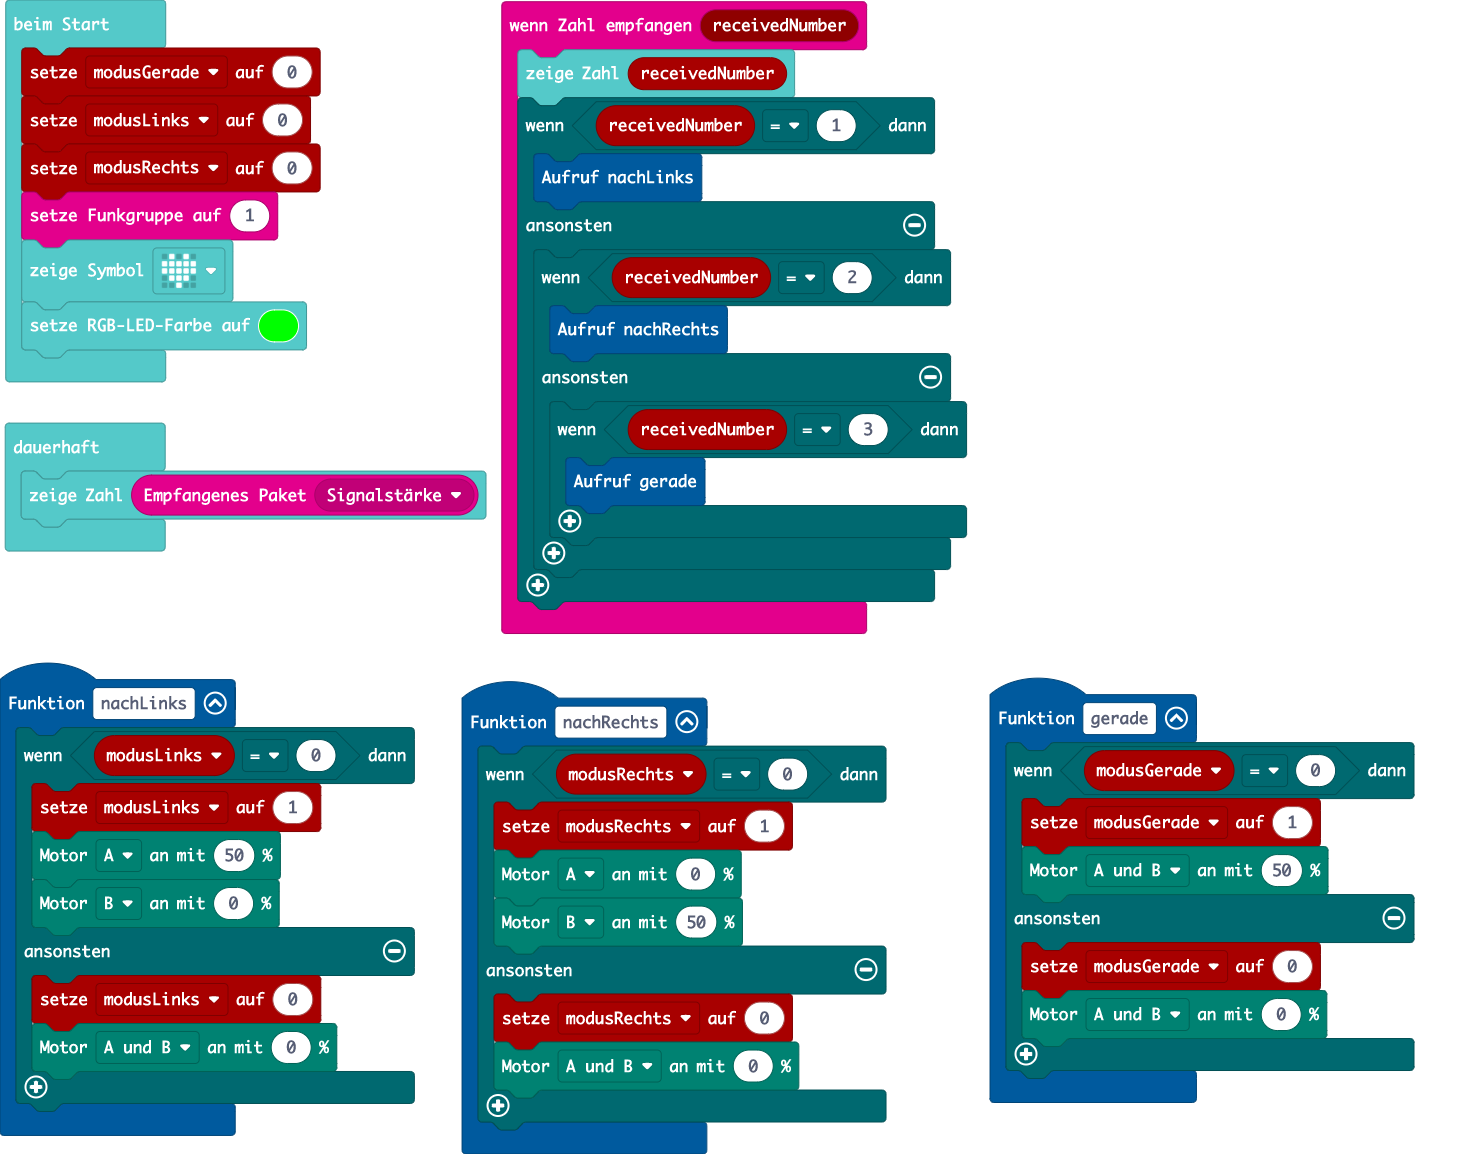
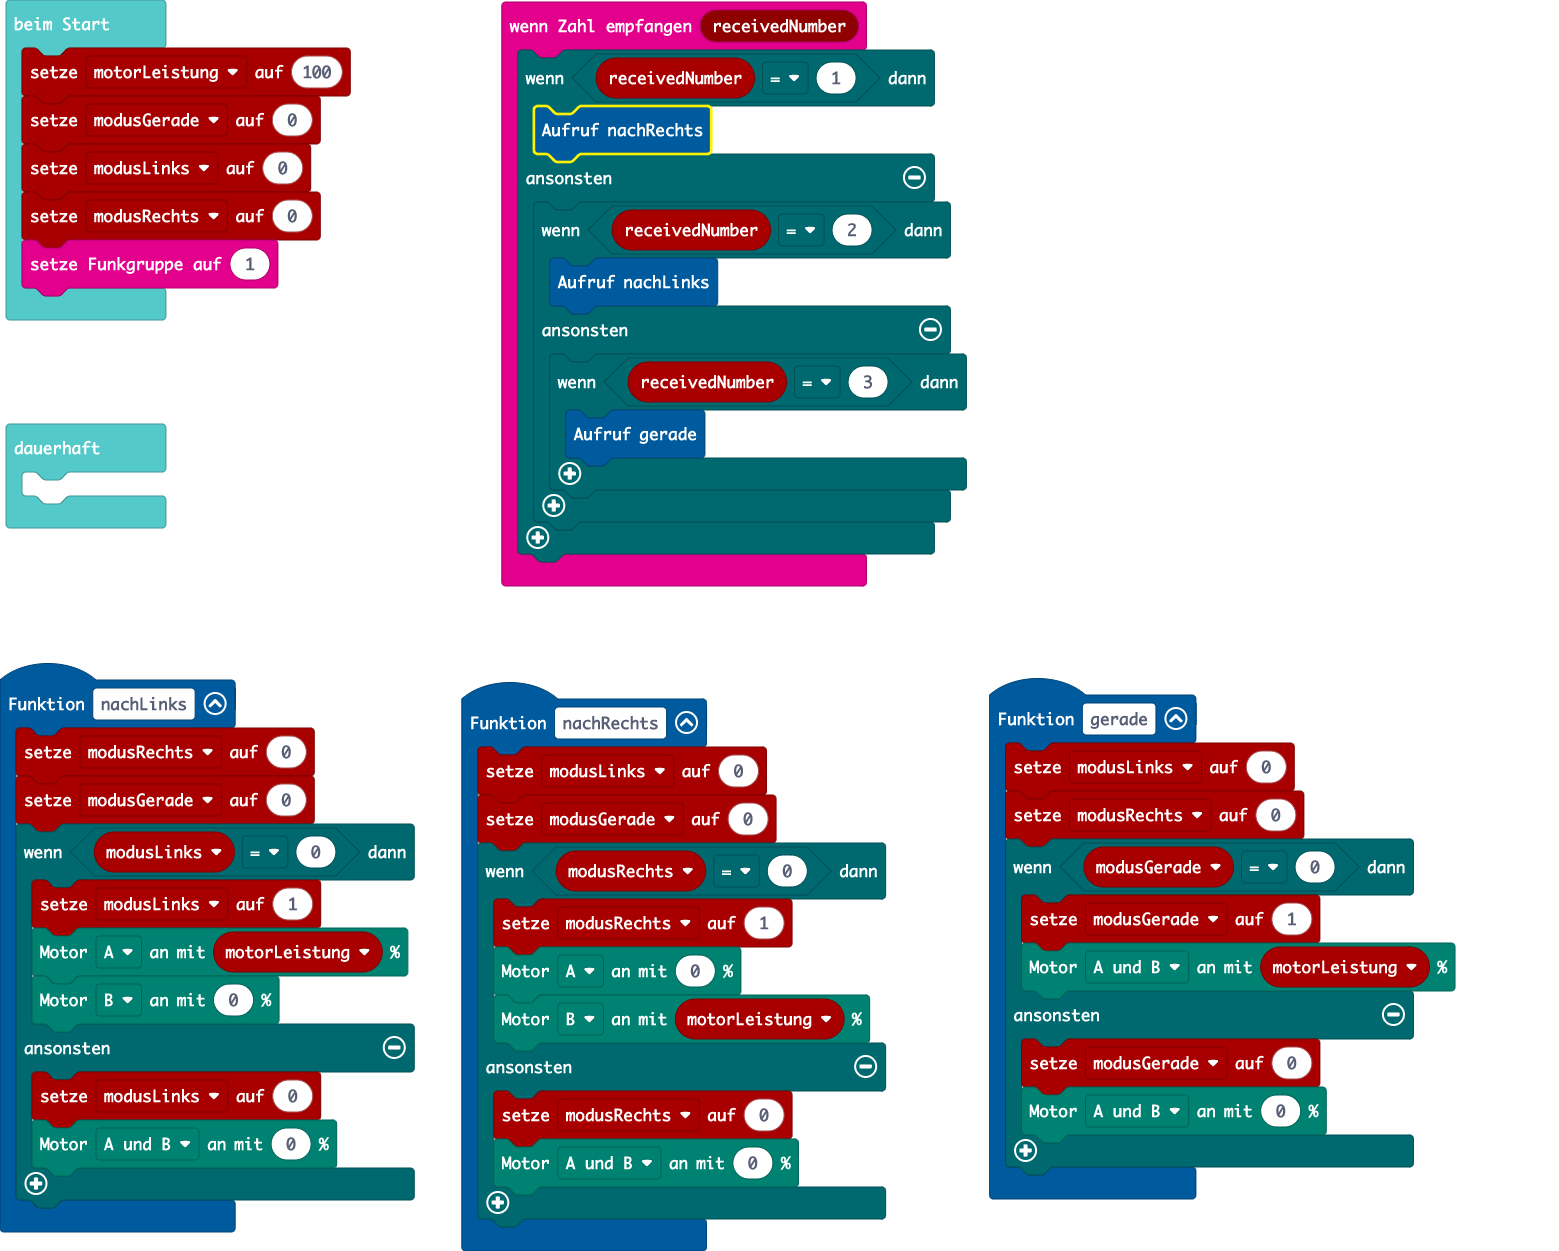
Aktualisiere main.blocks, main.ts

diff --git a/main.ts b/main.ts
@@ -1,10 +1,9 @@
 radio.onReceivedNumber(function (receivedNumber) {
-    basic.showNumber(receivedNumber)
     if (receivedNumber == 1) {
-        nachLinks()
+        nachRechts()
     } else {
         if (receivedNumber == 2) {
-            nachRechts()
+            nachLinks()
         } else {
             if (receivedNumber == 3) {
                 gerade()
@@ -13,18 +12,22 @@ radio.onReceivedNumber(function (receivedNumber) {
     }
 })
 function gerade () {
+    modusLinks = 0
+    modusRechts = 0
     if (modusGerade == 0) {
         modusGerade = 1
-        motors.dualMotorPower(Motor.AB, 50)
+        motors.dualMotorPower(Motor.AB, motorLeistung)
     } else {
         modusGerade = 0
         motors.dualMotorPower(Motor.AB, 0)
     }
 }
 function nachLinks () {
+    modusRechts = 0
+    modusGerade = 0
     if (modusLinks == 0) {
         modusLinks = 1
-        motors.dualMotorPower(Motor.A, 50)
+        motors.dualMotorPower(Motor.A, motorLeistung)
         motors.dualMotorPower(Motor.B, 0)
     } else {
         modusLinks = 0
@@ -32,10 +35,12 @@ function nachLinks () {
     }
 }
 function nachRechts () {
+    modusLinks = 0
+    modusGerade = 0
     if (modusRechts == 0) {
         modusRechts = 1
         motors.dualMotorPower(Motor.A, 0)
-        motors.dualMotorPower(Motor.B, 50)
+        motors.dualMotorPower(Motor.B, motorLeistung)
     } else {
         modusRechts = 0
         motors.dualMotorPower(Motor.AB, 0)
@@ -44,12 +49,12 @@ function nachRechts () {
 let modusRechts = 0
 let modusLinks = 0
 let modusGerade = 0
+let motorLeistung = 0
+motorLeistung = 100
 modusGerade = 0
 modusLinks = 0
 modusRechts = 0
 radio.setGroup(1)
-basic.showIcon(IconNames.Heart)
-basic.setLedColor(0x00ff00)
 basic.forever(function () {
-    basic.showNumber(radio.receivedPacket(RadioPacketProperty.SignalStrength))
+	
 })
